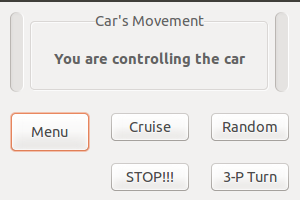
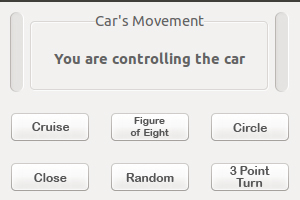
Added more comments + little changes

diff --git a/PiProgram.py b/PiProgram.py
@@ -8,14 +8,18 @@ from evdev import InputDevice, categorize, ecodes # Device Input
 from lib import xbox_read # Controller Lib
 import random
 
-# =====> Main Class
-
+# =====> Base Class
 class Base():
 	def getMacAddress(self):
+		# This function accesses a file and gets the mac address
 		try:
+			# Opens the file, only read properties
 			with open("macFile","r+") as macFile:
+				# Reads and strips mac files data 
 				mc = macFile.readline().rstrip("\n")
+				# Checks if what is in the file is a mac format
 				if re.match("[0-9a-f]{2}([-:])[0-9a-f]{2}(\\1[0-9a-f]{2}){4}$", mc.lower()):
+					# returns the mac or nothing
 					return mc
 				else: return ''
 		except IOError:
@@ -23,6 +27,9 @@ class Base():
 			return ''
 
 	def mainMenu(self):
+		# Menu function;
+
+	# Menu options
 		menu = {}
 		menu['1']=": Keyboard with GUI"
 		menu['2']=": Wheel"
@@ -33,23 +40,33 @@ class Base():
 		menu['q']=": Quit"
 
 		print "[...] Menu [...]\n"
+
+	# Sets some menu options
 		options=menu.keys()
 		options.sort()
 
-		for entry in options: 
-			print "\t" + entry, menu[entry]
+	# Goes thought every option and prints it out line by line.
+		for entry in options: print "\t" + entry, menu[entry]
 
 	def __init__(self):
+		# This __init function is the 
+
+	# Clears the terminal
 		os.system(['clear','cls'][os.name == 'nt'])
+	# Calls the Car Class
 		carClass = Car()
+	# Gets Mac Address
 		macaddr = self.getMacAddress()
 		print "[...] Connecting to the Car : " + macaddr + " [...]"
 
+	# Tests if the car works 
 		if Car().test(macaddr):
 			print "[...]\033[92m Connection Successful \033[0m[...]"
+		# If the test function works, setup the proper connection
 			carClass.connecting(macaddr)
 		else:
 			print "[...]\033[91m Connection Failed \033[0m [...]"
+		# Tests if the car is inrange
 			if carClass.inRange(macaddr):
 				print "[...]\033[91m Car is in range \033[0m[...]"
 			else:
@@ -58,12 +75,15 @@ class Base():
 
 
 		
-
+	# Loops until it breaks
 		while True: 
 			self.mainMenu()
+		# Waits untill input
 			selection=raw_input("\nPlease Select: ") 
+		# Clears termin
 			os.system(['clear','cls'][os.name == 'nt'])
 
+		# If the input matches any of the if statements below it will run that function or code.
 			if selection == '1': 
 				print '[...] Keyboard [...]'
 				carClass.keyboard()
@@ -93,6 +113,7 @@ class Base():
 
 # =====> Car Class
 class Car:
+	# Global variables:
 	x = 1
 	y = 1
 	last = 0
@@ -102,32 +123,47 @@ class Car:
 	speedTimeStamp = time.time()
 	wheelClass = wheel.WheelClass()
 
-	#def __init__(self):		
-
 	def moveX(self, st): 
-		if(st > -1 or st < 3):
+		# Checks in the variable sent is 
+		if(st >= 0 or st <= 2):
+			# Sets X axes to the set value
 			self.x = st
 	def moveY(self, st): 
-		if(st > -1 or st < 3):
+		# Checks in the variable sent is 
+		if(st >= 0 or st <= 2):
+			# Sets X axes to the set value
 			self.y = st
 	def moveXY(self, xBit, yBit, spd, tim):
+		# Sets: X, Y, speed and time it's doing it for 
 		self.x = xBit
 		self.y = yBit
 		self.move(spd)
 		time.sleep(tim)
 	def move(self, spd):
+		# Move/drive function
+		# Array of number according to the location of 
 		arra = [[5,1,6], [3,0,4], [7,2,8]]
+	# Creates a char according to the data sent. [ (16 x direction) + speed  ]  
 		ch = (16 * arra[self.y][self.x]) + spd
+	# Error checking to make sure it's not out side of the bounds of the char variable.
 		if self.last != ch and (ch >= 0 or ch <= 255) :
+			# Send the var over bluetooth adaptor
 			self.sock.send(chr(ch))
 			self.last = ch
 	def setSpeed(self, spd):
+		# Sets the speed of the car
+		# added up a temp var for error checking
 		tmp = self.speed + spd
 
+		# Checks that its not over or under the max/min speed
 		if(tmp <= self.maxSpeed and tmp >= self.minSpeed):
+		# Gets current time
 			currentTime = time.time()
+			# Checks according of time passed so doesn't change to quickly
 			if(float(currentTime - self.speedTimeStamp) >= .2):
+				# Sets the global speed to new speed
 				self.speed =  tmp
+				# Sets new time
 				self.speedTimeStamp = currentTime
 				print "New Speed: " + str(self.speed)
 
@@ -135,6 +171,10 @@ class Car:
 	def keyboard(self):
 		# loop around each key press
 		self.wheelClass.launchGUI()
+
+		# Shows what are the different buttons.
+ 		print "\nForward: Up Arrow\nBackwards: Down Arrow\nLeft: Left Arrow\nRight: Right Arrow\n\nSpeed up: +/plus Button\nSpeed Down: -/minus Button\n\nExit: Escape Button\n\nCurrent Speed: "+str(self.speed) 
+
 		while True:
 		# Starts pulling keyboard inputs from pygame
 			pygame.event.pump()
@@ -166,6 +206,8 @@ class Car:
 			if event.type == pygame.MOUSEBUTTONDOWN: #and event.button == LEFT:
 				self.mouse_click_handler(event.pos)
 
+		os.system(['clear','cls'][os.name == 'nt'])
+
 	def controllerXbox(self):
 		# loop around xbox events
 		while True:
@@ -187,15 +229,12 @@ class Car:
 					if event.key == 'dl' and event.value == 1: self.moveX(0)
 					elif event.key == 'dr' and event.value == 1: self.moveX(2)
 					else: self.moveX(1)
-
-
-
-				#if(event.key == 'RT' or event.key == 'LT') and self.speed != int(event.value)/17:
-				#	self.speed = int(event.value)/17
 				
+				# Runs the move function
 				self.move(self.speed)
 
-				if(event.key == 'guide'): break
+				#if(event.key == 'guide'): break
+		os.system(['clear','cls'][os.name == 'nt'])
 
 
 	def controllerPs3(self):
@@ -214,12 +253,14 @@ class Car:
 			if self.pressed[K_ESCAPE]: break
 
 	def connecting(self,bdr_addr):
+		# Connects the Pi and Car
 		try:
 			self.sock = bluetooth.BluetoothSocket(bluetooth.RFCOMM)
 			self.sock.connect((bdr_addr, 1))
 			return sock
 		except: return ''
 	def test(self,mac):
+		# Tests the connection between the Pi and Car
 		try:
 			testSock = bluetooth.BluetoothSocket(bluetooth.RFCOMM)
 			testSock.connect((mac, 1))
@@ -231,9 +272,7 @@ class Car:
 			return False
 
 	def inRange(self, mac):
-		"""
-		Function, tests if car is in range and connected
-		"""
+		# Function, tests if car is in range and connected
 		devices = bluetooth.discover_devices()
 
 		for bdaddr in devices:
@@ -242,20 +281,25 @@ class Car:
 		return False
 
 	def subPreMenu(self):
+		# Clears terminal
 		os.system(['clear','cls'][os.name == 'nt'])
 		menu = {}
 
+		# Sets sub menu
 		menu['1']=": Circle"
 		menu['2']=": Random*"
 		menu['3']=": Three Point Turn"
 		menu['4']=": Figure of Eight"
+		menu['5']=": Cruise"
 		menu['q']=": Quit"
 
 		while True: 
 			print "[...] Pre-defined Figures [...]\n"
+			# Sorts menu
 			options=menu.keys()
 			options.sort()
 
+			# Prints menu
 			for entry in options: 
 				print "\t" + entry, menu[entry]
 
@@ -266,14 +310,16 @@ class Car:
 				print '[...] Circle [...]'
 				self.circle()
 			elif selection == '2': 
-				print '[...] Random* [...]'
-				#self.leftCircle()
+				print '[...] Random [...]'
+				self.randomMoves()
 			elif selection == '3': 
 				print '[...] Three Point Turn [...]'
 				self.threePointTurn()
 			elif selection == '4': 
 				print '[...] Figure of Eigth [...]'
 				self.eigth()
+			elif selection == '5':
+				print '[...] Cruise [...]'
 			elif selection == 'q':
 				break
 			else: 
@@ -300,9 +346,7 @@ class Car:
 		self.moveXY(1,1,0,0)		# stop
 
 	def randomMoves(self):
-		"""
-		Spazz out for 12 seconds, making random move every 3 seconds
-		"""
+		# Spazz out for 12 seconds, making random move every 3 seconds
 		for x in range(1,5): #running 4 times
 			dirX = random.choice([0,1,2])
 			dirY = random.choice([0,2]) #not using 1 as it would just turn wheels
@@ -310,9 +354,7 @@ class Car:
 			self.moveXY(dirX,dirY,speed,3)
 		
 	def cruise(self):
-		"""
-		Cruising for 10 seconds
-		"""
+		#Cruising for 10 seconds
 		self.moveXY(1,0,9,10)
 
 
@@ -341,4 +383,5 @@ class Car:
 				sys.exit(0)
 
 if __name__ == "__main__":
+	# Start of the program
 	Base()

diff --git a/lib/xbox_read.py b/lib/xbox_read.py
@@ -38,6 +38,9 @@ def event_stream(deadzone=0,scale=32768):
                     data[key] = apply_deadzone(data[key],deadzone,scale)
                 if data[key]==_data[key]: continue
                 event = Event(key,data[key],_data[key])
+
+                if (key == 'guide'): False  # Exits after guild button is pressed
+
                 yield event
             _data = data
 
